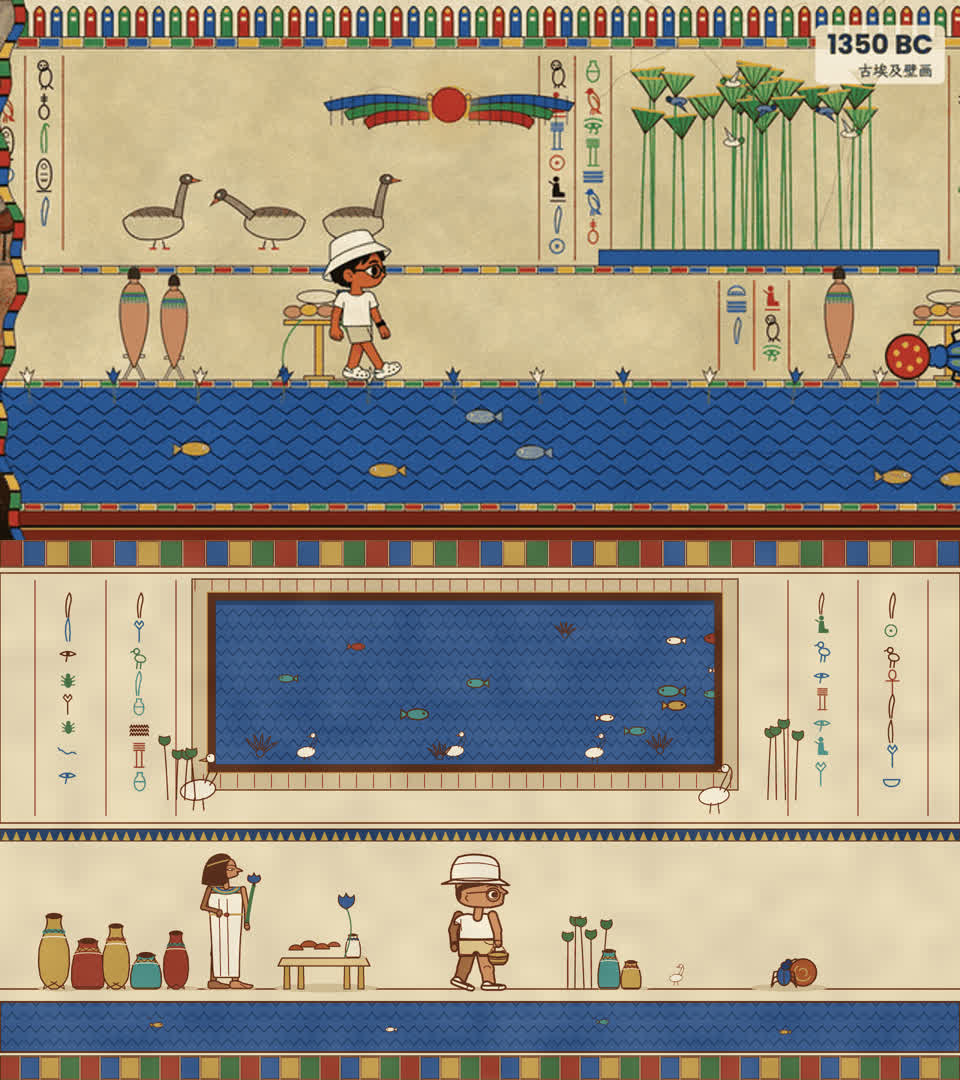
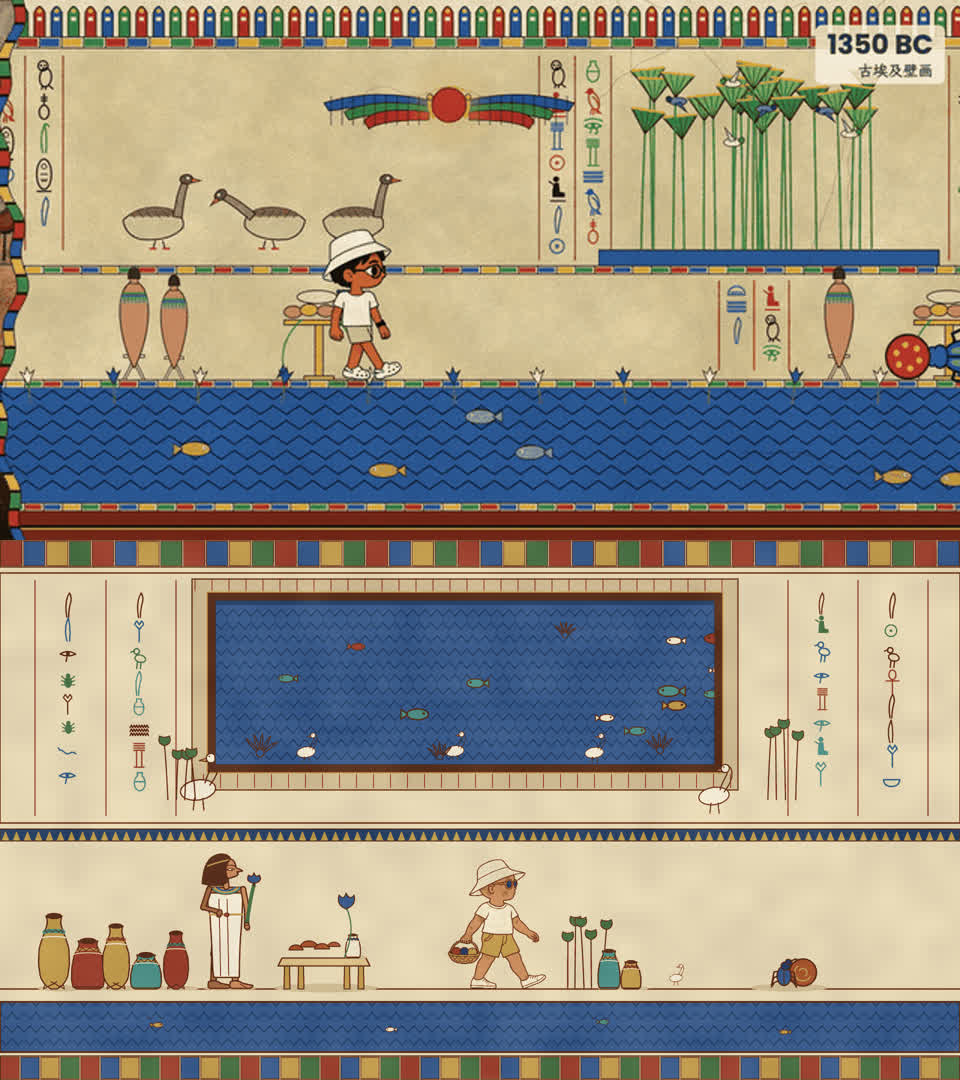
egypt: the character comes from image generation, and the picture changes
Five rounds of polygons never produced a figure the blind reviewers would
accept. This one is generated: Deep API gpt-image-2, prompted with the
card's own three lines (medium, palette, prohibitions), 1145x1374, flat
gouache on a cream ground.

The compositing rules from protocol/角色.md are all applied here:

- keying has to flood from the border, not match colour globally — a
  global match removes the white tee and the hat too, because they sit
  within 20 of the cream;
- the enclosed pocket between hat brim and shoulder needs a second,
  tighter pass (tolerance 10) or it survives as a pale blob;
- the drawn frame's palette pass closes the gap: flatten() snaps the
  generated colours into the same 15, so the figure and the wall end up
  one painting instead of two.

The card gains the route and the three gotchas that cost the time.

Changed region(s): [[0.4688, 0.7944, 0.5625, 0.9167]]

diff --git a/cards/egypt.md b/cards/egypt.md
@@ -69,6 +69,16 @@
 根子是**卡没写目标**：这张卡是「对着内巴蒙墓做一幅壁画」，还是「做原片那种穿越式的卡通壁画」？
 两条路的评分标准不一样，而评分表只有一张。
 
+## 角色改走生图（第 6 轮）
+
+五轮都在用多边形拼人。第 6 轮换了路线：**主角由生图给，代码只负责合成**（`protocol/角色.md`）。
+
+- 生图：Deep API `gpt-image-2`，提示词按卡上三行写（媒介／色板／禁令），出 1145×1374 的平涂卡通小孩。
+- 抠图：**从四边漫水**只抠与边缘连通的背景，容差 26；再用容差 10 清掉被主体围住的口袋。
+  ——全局按色相似度抠会把白 T 恤和白帽子一起抠掉（两者只差 20 左右）。
+- 合成：`timeline.assets.kid` + `ctx.image(kid, …)`，底边踩在地面线上。
+- 对齐：最后那道 `flatten` 会把生图的颜色一起压进 15 色板，人和墙因此是一套色。
+
 ## 下一次从哪开始
 
 1. **先定目标**：卡的头一行写清「我对照的是哪一张参考」，盲评按那一张判。
